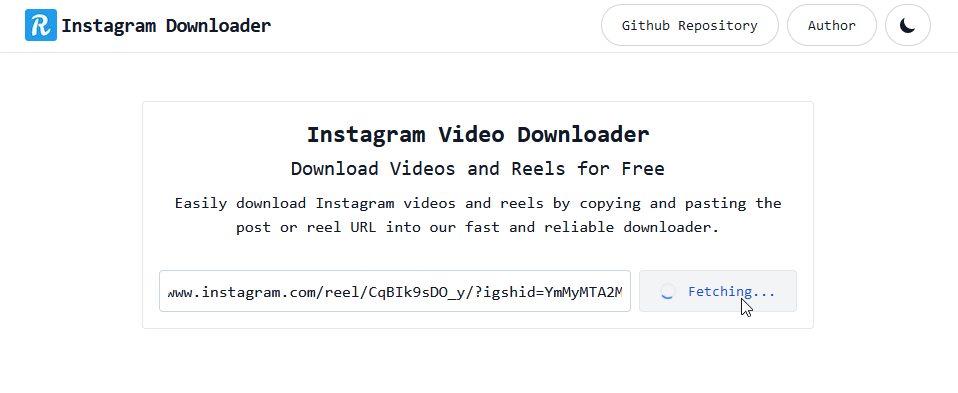
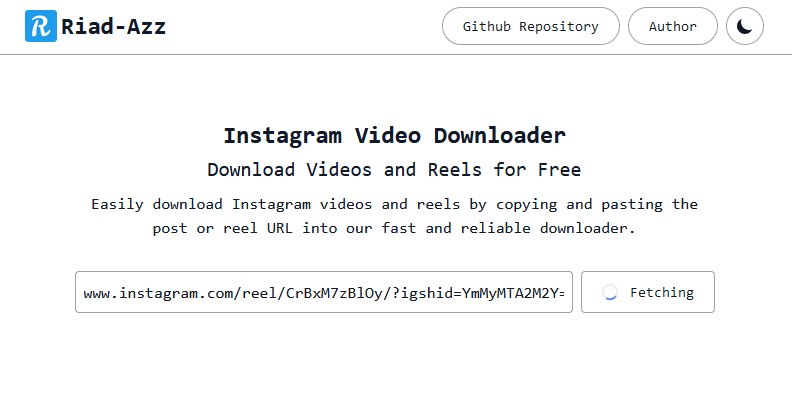
Update Added navbar menu for more responsive UX Added main page loading screen Improved UX for interactive elements and better style overall Added DropdownLink component Added BurgerButton component Added Navigation component Added new screenshots

diff --git a/app/components/InstagramForm.tsx b/app/components/InstagramForm.tsx
@@ -98,7 +98,7 @@ const InstagramForm = () => {
           placeholder="e.g. https://www.instagram.com/p/CGh4a0iASGS"
           aria-label="Instagram video download URL input"
           title="Instagram video download URL input"
-          className="w-full px-2 py-2 dark:bg-gray-700 dark:text-white dark:placeholder-gray-400 border border-slate-300 focus:ring-2 focus:ring-slate-300 focus:border-transparent focus:outline-none rounded"
+          className="w-full px-2 py-2 dark:bg-gray-700 dark:text-white dark:placeholder-gray-400 border border-gray-400 focus:ring-2 focus:ring-slate-300 focus:border-transparent focus:outline-none rounded"
         />
         {loading ? (
           <button
@@ -106,7 +106,7 @@ const InstagramForm = () => {
             aria-label="Loading Instagram video download"
             title="Loading Instagram video download"
             type="button"
-            className="py-2.5 px-5 text-sm font-medium text-gray-900 bg-white dark:bg-gray-700 dark:text-white rounded border border-gray-200 hover:bg-gray-100 dark:hover:bg-gray-600 hover:text-blue-700 dark:hover:text-blue-300 focus:z-10 focus:ring-2 focus:ring-gray-200 focus:outline-none focus:text-blue-700 inline-flex items-center"
+            className="py-2.5 px-5 text-sm font-medium text-gray-900 bg-white dark:bg-gray-700 dark:text-white rounded border border-gray-400 hover:bg-gray-100 dark:hover:bg-gray-600 hover:text-blue-700 dark:hover:text-blue-300 focus:z-10 focus:ring-2 focus:ring-gray-200 focus:outline-none focus:text-blue-700 inline-flex items-center"
           >
             <svg
               aria-hidden="true"
@@ -125,14 +125,14 @@ const InstagramForm = () => {
                 fill="#1C64F2"
               />
             </svg>
-            Fetching...
+            Fetching
           </button>
         ) : (
           <button
             aria-label="Download Instagram video"
             title="Download Instagram video"
             type="submit"
-            className="py-2.5 px-5 text-sm font-medium text-gray-900 bg-white dark:bg-gray-700 dark:text-white rounded border border-gray-200 hover:bg-gray-100 dark:hover:bg-gray-600 hover:text-blue-700 dark:hover:text-blue-300 focus:z-10 focus:ring-2 focus:ring-gray-200 focus:outline-none focus:text-blue-700 inline-flex items-center"
+            className="py-2.5 px-5 text-sm font-medium text-gray-900 bg-white dark:bg-gray-700 dark:text-white rounded border border-gray-400 hover:bg-gray-100 dark:hover:bg-gray-600 hover:text-blue-700 dark:hover:text-blue-300 focus:z-10 focus:ring-2 focus:ring-gray-200 focus:outline-none focus:text-blue-700 inline-flex items-center"
           >
             <svg
               aria-label="download icon"

diff --git a/app/components/Navigation.tsx b/app/components/Navigation.tsx
@@ -1,0 +1,71 @@
+"use client";
+
+import Link from "next/link";
+import Image from "next/image";
+import NavLink from "./NavLink";
+import DropdownLink from "./DropdownLink";
+import ThemeButton from "./ThemeButton";
+import BurgerButton from "./BurgerButton";
+
+import { useState } from "react";
+
+const Navigation = () => {
+  const [menu, setMenu] = useState(false);
+
+  return (
+    <header
+      role="navigation"
+      className="flex flex-col md:flex-row md:px-8 gap-2 w-full justify-between items-center px-2 py-1 mb-12 border-b border-gray-400 dark:border-[#e5e7eb]"
+    >
+      <div className="max-md:w-full max-md:flex max-md:justify-between max-md:items-center">
+        <Link className="flex gap-1 items-center py-2" href="/">
+          <Image
+            className="w-8 h-8"
+            src="/logo.png"
+            alt="Logo"
+            width={128}
+            height={128}
+          />
+          <span className="self-center text-2xl font-semibold whitespace-nowrap dark:text-white">
+            Riad-Azz
+          </span>
+        </Link>
+        <BurgerButton onClick={() => setMenu(!menu)} />
+      </div>
+      <ul className="flex gap-2 max-md:hidden">
+        <NavLink
+          target="_blank"
+          content="Github Repository"
+          href="https://github.com/riad-azz/instagram-videos-downloader"
+          animation="motion-safe:animate-[animate-drop_1s_ease-in-out_1]"
+        />
+        <NavLink
+          target="_blank"
+          content="Author"
+          href="https://github.com/riad-azz/"
+          animation="motion-safe:animate-[animate-drop_1s_ease-in-out_1]"
+        />
+        <ThemeButton animation="motion-safe:animate-[animate-roll-in_1s_ease-in_1]" />
+      </ul>
+      <ul
+        className={`flex flex-col gap-2 max-md:w-full ${
+          !menu && "hidden"
+        } md:hidden`}
+      >
+        <DropdownLink
+          target="_blank"
+          content="Github Repository"
+          href="https://github.com/riad-azz/instagram-videos-downloader"
+        />
+        <DropdownLink
+          target="_blank"
+          content="Author"
+          href="https://github.com/riad-azz/"
+        />
+        <ThemeButton />
+      </ul>
+    </header>
+  );
+};
+
+export default Navigation;

diff --git a/app/page.tsx b/app/page.tsx
@@ -1,34 +1,11 @@
-import Link from "next/link";
 import InstagramForm from "./components/InstagramForm";
-import Image from "next/image";
-import NavLink from "./components/NavLink";
-import ThemeButton from "./components/ThemeButton";
+import Navigation from "./components/Navigation";
 
 export default function Home() {
   return (
     <>
-      <header className="flex flex-col md:flex-row md:px-8 gap-2 w-full justify-between items-center px-2 py-1.5 mb-12 border-b">
-        <div className="flex gap-1 items-center text-xl font-bold tracking-tight">
-          <Image src="/logo.png" alt="Logo" width={32} height={32} />
-          <Link href="/">Instagram Downloader</Link>
-        </div>
-        <ul className="flex gap-2">
-          <NavLink
-            target="_blank"
-            content="Github Repository"
-            href="https://github.com/riad-azz/instagram-videos-downloader"
-            animation="motion-safe:animate-[animate-slide-right_1s_ease-in-out_1]"
-          />
-          <NavLink
-            target="_blank"
-            content="Author"
-            href="https://github.com/riad-azz/"
-            animation="motion-safe:animate-[animate-slide-right_1s_ease-in-out_1]"
-          />
-          <ThemeButton></ThemeButton>
-        </ul>
-      </header>
-      <main className="container w-full md:max-w-2xl mx-auto p-4 border rounded">
+      <Navigation />
+      <main className="container w-full md:max-w-2xl mx-auto p-4 rounded">
         <header className="mb-8 motion-safe:animate-[animate-drop_1.5s_ease-in-out_1]">
           <h1 className="text-2xl font-bold text-center mb-1">
             Instagram Video Downloader

diff --git a/app/components/ThemeButton.tsx b/app/components/ThemeButton.tsx
@@ -3,7 +3,7 @@
 import { useState, useEffect } from "react";
 import LoadingSpinner from "./LoadingSpinner";
 
-const ThemeButton = () => {
+const ThemeButton = ({ animation = "" }: { animation?: string }) => {
   const [theme, setTheme] = useState("");
 
   useEffect(() => {
@@ -28,8 +28,9 @@ const ThemeButton = () => {
   return (
     <button
       onClick={() => toggleTheme()}
-      className="text-gray-900 bg-white border border-gray-300 focus:outline-none hover:bg-gray-100 font-medium rounded-full text-sm px-3 py-2 dark:bg-gray-800 dark:text-white dark:border-gray-600 dark:hover:bg-gray-700 dark:hover:border-gray-600 motion-safe:animate-[animate-slide-left_1.3s_ease-in-out_1]"
+      className={`${animation} flex items-center justify-between text-gray-900 bg-white border border-gray-400 focus:outline-none hover:bg-gray-100 font-medium md:rounded-full text-sm p-2 dark:bg-gray-800 dark:text-white dark:border-gray-600 dark:hover:bg-gray-700 dark:hover:border-gray-600`}
     >
+      <span className="md:hidden">Change theme</span>
       <span className={theme ? "hidden" : "block"}>
         <LoadingSpinner size={20} />
       </span>

diff --git a/app/components/BurgerButton.tsx b/app/components/BurgerButton.tsx
@@ -1,0 +1,29 @@
+const BurgerButton = ({ onClick }: { onClick: () => void }) => {
+  return (
+    <button
+      onClick={onClick}
+      data-collapse-toggle="navbar-dropdown"
+      type="button"
+      className="md:hidden inline-flex border items-center p-2 border-gray-400 ml-3 text-sm text-gray-500 rounded-lg hover:bg-gray-100 focus:outline-none focus:ring-2 focus:ring-gray-200 dark:text-gray-400 dark:hover:bg-gray-700 dark:focus:ring-gray-600"
+      aria-controls="navbar-dropdown"
+      aria-expanded="false"
+    >
+      <span className="sr-only">Open navbar menu</span>
+      <svg
+        className="w-6 h-6"
+        aria-hidden="true"
+        fill="currentColor"
+        viewBox="0 0 20 20"
+        xmlns="http://www.w3.org/2000/svg"
+      >
+        <path
+          fillRule="evenodd"
+          d="M3 5a1 1 0 011-1h12a1 1 0 110 2H4a1 1 0 01-1-1zM3 10a1 1 0 011-1h12a1 1 0 110 2H4a1 1 0 01-1-1zM3 15a1 1 0 011-1h12a1 1 0 110 2H4a1 1 0 01-1-1z"
+          clipRule="evenodd"
+        ></path>
+      </svg>
+    </button>
+  );
+};
+
+export default BurgerButton;

diff --git a/app/globals.css b/app/globals.css
@@ -2,6 +2,10 @@
 @tailwind components;
 @tailwind utilities;
 
+body {
+  overflow-x: hidden;
+}
+
 @keyframes animate-up {
   0% {
     opacity: 0;
@@ -27,41 +31,13 @@
   }
 }
 
-@keyframes animate-roll {
+@keyframes animate-roll-in {
   0% {
     opacity: 0;
-    transform: scale(0, 0) rotate(360deg);
+    transform: translate(150px, 0) scale(0.5, 0.5) rotate(360deg);
   }
   100% {
     opacity: 1;
-    transform: scale(1, 1) rotate(0deg);
-  }
-}
-
-@keyframes animate-slide-left {
-  0% {
-    opacity: 0;
-    transform: translate(50px, 0) scale(0.5, 0.5);
-  }
-  80% {
-    opacity: 0.5;
-  }
-  100% {
-    opacity: 1;
-    transform: translate(0, 0) scale(1, 1);
-  }
-}
-
-@keyframes animate-slide-right {
-  0% {
-    opacity: 0;
-    transform: translate(-50px, 0) scale(0.5, 0.5);
-  }
-  80% {
-    opacity: 0.9;
-  }
-  100% {
-    opacity: 1;
-    transform: translate(0, 0) scale(1, 1);
+    transform: translate(0, 0) scale(1, 1) rotate(0deg);
   }
 }

diff --git a/app/components/DropdownLink.tsx b/app/components/DropdownLink.tsx
@@ -1,6 +1,6 @@
 import Link from "next/link";
 
-const NavLink = ({
+const DropdownLink = ({
   content,
   href,
   target = "",
@@ -16,7 +16,7 @@ const NavLink = ({
       <Link
         href={href}
         target={target}
-        className="block text-gray-900 bg-white border border-gray-400 focus:outline-none hover:bg-gray-100 font-medium rounded-full text-sm px-5 py-2 dark:bg-gray-800 dark:text-white dark:border-gray-600 dark:hover:bg-gray-700 dark:hover:border-gray-600"
+        className="block text-gray-900 bg-white border border-gray-400 focus:outline-none hover:bg-gray-100 font-medium text-sm px-5 py-2 dark:bg-gray-800 dark:text-white dark:border-gray-600 dark:hover:bg-gray-700 dark:hover:border-gray-600"
       >
         {content}
       </Link>
@@ -24,4 +24,4 @@ const NavLink = ({
   );
 };
 
-export default NavLink;
+export default DropdownLink;

diff --git a/app/loading.tsx b/app/loading.tsx
@@ -1,0 +1,12 @@
+import LoadingSpinner from "./components/LoadingSpinner";
+
+const Loading = () => {
+  return (
+    <div className="absolute right-0 top-0 flex h-screen  w-screen flex-col items-center justify-center gap-2">
+      <LoadingSpinner size={40} />
+      <p className="text-center">Snacks while we wait 🍕?</p>
+    </div>
+  );
+};
+
+export default Loading;

diff --git a/README.md b/README.md
@@ -6,7 +6,7 @@ Simple Website/API for downloading instagram videos
 
 A website that lets you download Instagram videos easily and quickly. You can paste the link or ID of any public Instagram post and get the video file in MP4 format. there is also an API that you can use to integrate this functionality into your own applications. The API is simple, and it returns JSON responses with the video URL and other metadata.
 
-**You can preview and try the website live in vercel here : [Instagram Videos Downloader](https://riad-insta.vercel.app/)**
+**You can preview and try the website live in vercel here : [riad-insta.vercel.app](https://riad-insta.vercel.app/)**
 
 ## Getting Started
 
